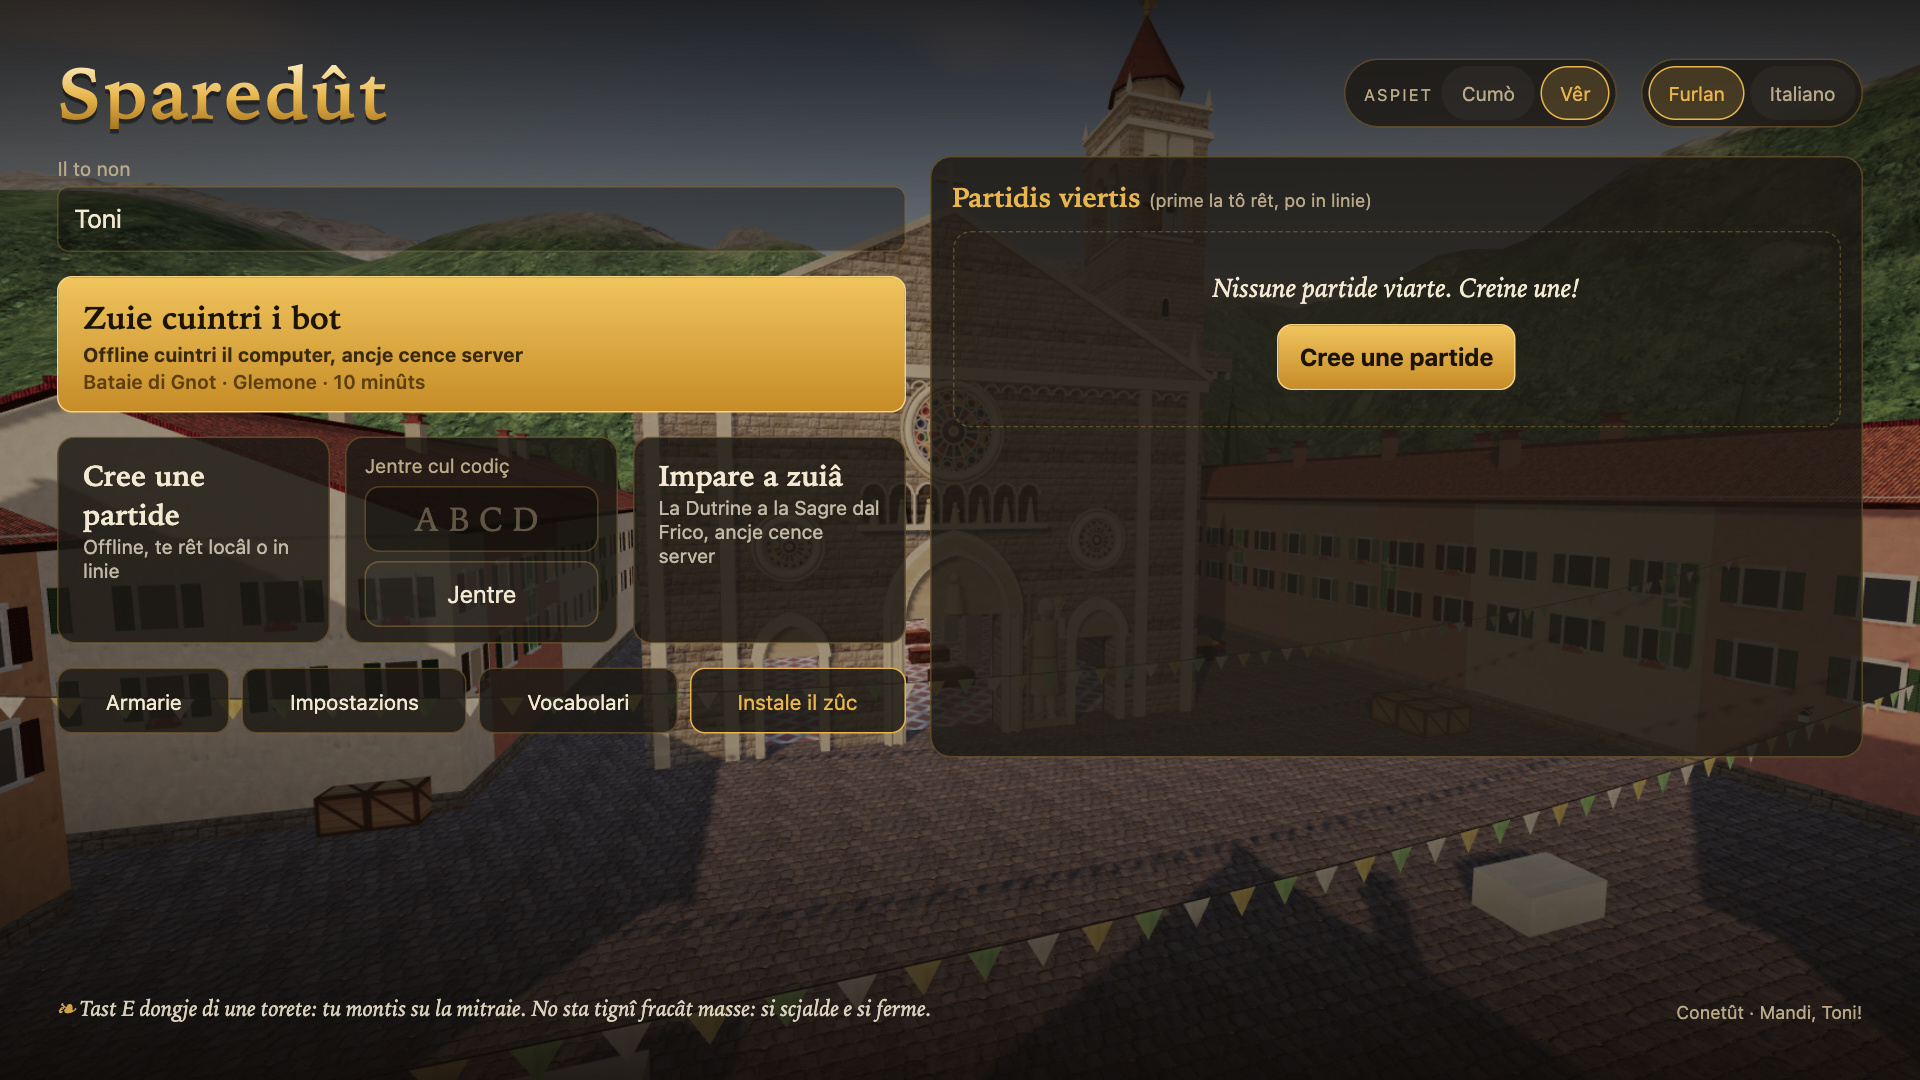
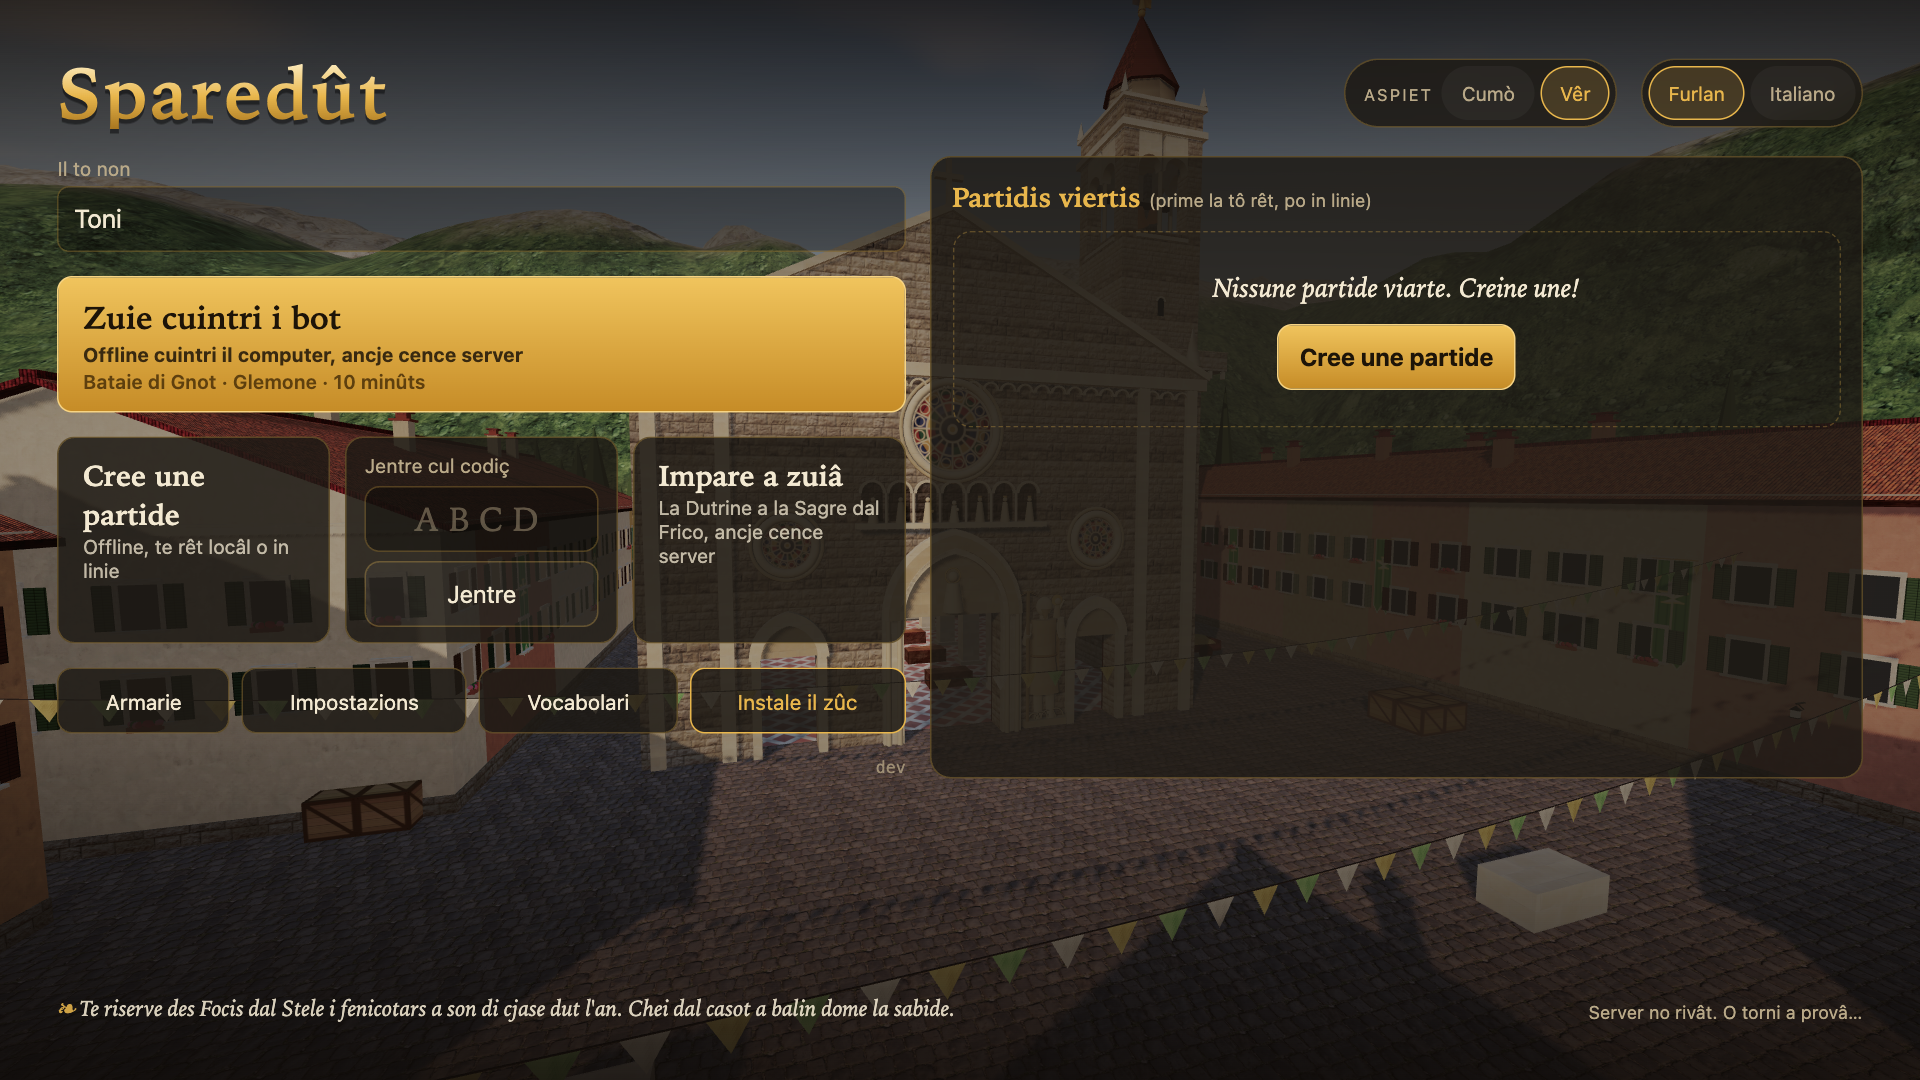
feat: the game has a version, and the menu shows it
`version` in package.json (0.1.0) is the single source. Vite stamps it and
the short commit SHA into the client bundle, and Alchemy's Rolldown build
does the same for the Worker (shared/version.ts, scripts/game-version.ts).
The dev server shows `dev`.

The menu's home screen shows `v0.1.0 · f25736c`, small, under the tools.
After a successful deploy on main, a separate CI job with `contents: write`
tags `vX.Y.Z` and publishes a GitHub Release with generated notes. When the
tag already exists, the job skips without failing. AGENTS.md says when to
bump minor or patch, and that PROTOCOL_VERSION is a separate decision.

Closes #92

diff --git a/scripts/game-version.ts b/scripts/game-version.ts
@@ -1,0 +1,50 @@
+/**
+ * Stamps the game's version and commit into a build (`shared/version.ts`). The version is
+ * `version` in `package.json`, the only place it is written; the commit is the short SHA of
+ * `HEAD`. The client's build (`vite.config.ts`) and the Worker's (`alchemy.run.ts`) both take
+ * their values from `buildDefines`, so the two always agree.
+ */
+import { execFileSync } from "node:child_process"
+import { readFileSync } from "node:fs"
+import type { Plugin } from "vite"
+import type { GameBuild } from "../shared/version.ts"
+
+const PACKAGE_JSON = new URL("../package.json", import.meta.url)
+
+/** `MAJOR.MINOR.PATCH`, with an optional pre-release or build suffix. */
+const SEMVER = /^\d+\.\d+\.\d+(?:[-+][0-9A-Za-z.+-]+)?$/
+
+/** The commit's short SHA: git's, or CI's `GITHUB_SHA` without git, or `unknown`. */
+export function shortCommit(env: Readonly<Record<string, string | undefined>> = process.env): string {
+  try {
+    return execFileSync("git", ["rev-parse", "--short=7", "HEAD"], { encoding: "utf8", stdio: ["ignore", "pipe", "ignore"] }).trim()
+  } catch {
+    return env.GITHUB_SHA?.slice(0, 7) || "unknown"
+  }
+}
+
+/** The version in `package.json`; a missing or malformed one fails the build. */
+export function packageVersion(json: string = readFileSync(PACKAGE_JSON, "utf8")): string {
+  const version: unknown = (JSON.parse(json) as { version?: unknown }).version
+  if (typeof version !== "string" || !SEMVER.test(version)) throw new Error(`package.json: "version" must be SemVer, not ${JSON.stringify(version)}`)
+  return version
+}
+
+/** The version and commit of the build being made now. */
+export function currentBuild(): GameBuild {
+  return { version: packageVersion(), commit: shortCommit() }
+}
+
+/** The constants `shared/version.ts` reads, as a bundler's `define`. */
+export function buildDefines(build: GameBuild): Record<string, string> {
+  return { __SPAREDUT_VERSION__: JSON.stringify(build.version), __SPAREDUT_COMMIT__: JSON.stringify(build.commit) }
+}
+
+/** The version and commit in `vite build` only: the dev server stays `dev`. */
+export function gameVersion(): Plugin {
+  return {
+    name: "sparedut-game-version",
+    apply: "build",
+    config: () => ({ define: buildDefines(currentBuild()) })
+  }
+}

diff --git a/client/style.css b/client/style.css
@@ -846,7 +846,7 @@ html.in-match[data-device="touch"] #perf { top: var(--free-t); left: var(--free-
    Everything at once. One column on a narrow screen, the list after the actions; where there is
    room, the room list beside them, as tall as they are and scrolling inside. */
 .home { align-self: start; display: grid; gap: clamp(10px, 1.4vw, 16px);
-  grid-template-columns: minmax(0, 1fr); grid-template-areas: "name" "hero" "tiles" "rooms" "tools"; }
+  grid-template-columns: minmax(0, 1fr); grid-template-areas: "name" "hero" "tiles" "rooms" "tools" "version"; }
 .home-name { grid-area: name; }
 .home-name input { min-block-size: 44px; font-size: 17px; }
 .home-name input[aria-invalid="true"]::placeholder { color: #f08a6c; }
@@ -885,6 +885,9 @@ html.in-match[data-device="touch"] #perf { top: var(--free-t); left: var(--free-
   border: 1px dashed var(--stone-line); border-radius: 10px; }
 .install-by-hand::before { content: "📲 "; }
 .home-tools .install[hidden], .install-by-hand[hidden] { display: none; }
+/* The version and commit: small and faint in the corner under everything, readable when looked for. */
+.home-version { grid-area: version; align-self: end; justify-self: end; margin: 0; font: 11px/1.2 ui-monospace, SFMono-Regular, Menlo, monospace;
+  color: var(--muted); opacity: 0.75; user-select: text; }
 
 /* Join by code: label, letters, button; the letters show in capitals whatever is typed. */
 .code-join { display: flex; flex-wrap: wrap; align-items: center; gap: 6px 8px; margin: 0; padding: 10px 12px; }
@@ -923,7 +926,7 @@ html.in-match[data-device="touch"] #perf { top: var(--free-t); left: var(--free-
 
 @container menu (inline-size > 46rem) {
   .home { grid-template-columns: minmax(0, 1fr) minmax(0, 1.1fr); grid-template-rows: repeat(4, auto) 1fr;
-    grid-template-areas: "name rooms" "hero rooms" "tiles rooms" "tools rooms" ". rooms"; }
+    grid-template-areas: "name rooms" "hero rooms" "tiles rooms" "tools rooms" "version rooms"; }
   /* The list takes the actions' height, or more on a tall screen, and scrolls inside it rather than making the page taller. */
   .home-rooms { contain: size; min-block-size: 55dvh; }
   #room-list { flex: 1; min-block-size: 0; overflow: auto; overscroll-behavior: contain; padding: 2px; margin: -2px; }

diff --git a/test/version.test.ts b/test/version.test.ts
@@ -1,0 +1,40 @@
+/**
+ * The game's version: `version` in `package.json`, stamped with the commit into the client's
+ * and the Worker's builds (`scripts/game-version.ts`), shown on the menu's home screen.
+ */
+import { expect, test } from "bun:test"
+import { readFileSync } from "node:fs"
+import { buildDefines, currentBuild, packageVersion } from "../scripts/game-version.ts"
+import { GAME_BUILD, versionLabel } from "../shared/version.ts"
+
+test("the menu shows the version and the commit, or `dev` where nothing was stamped", () => {
+  expect(versionLabel({ version: "0.1.0", commit: "f25736c" })).toBe("v0.1.0 · f25736c")
+  expect(versionLabel(null)).toBe("dev")
+})
+
+test("outside a build nothing is stamped: the dev server and the Bun server are `dev`", () => {
+  expect(GAME_BUILD).toBeNull()
+})
+
+test("the version is package.json's own, SemVer", () => {
+  expect(packageVersion()).toBe((JSON.parse(readFileSync(new URL("../package.json", import.meta.url), "utf8")) as { version: string }).version)
+  expect(packageVersion('{"version":"0.12.3"}')).toBe("0.12.3")
+  expect(packageVersion('{"version":"1.0.0-rc.1"}')).toBe("1.0.0-rc.1")
+  expect(() => packageVersion("{}")).toThrow()
+  expect(() => packageVersion('{"version":"0.1"}')).toThrow()
+  expect(() => packageVersion('{"version":"v0.1.0"}')).toThrow()
+})
+
+test("a build is stamped with the version and a short commit, as string literals", () => {
+  const build = currentBuild()
+  expect(build.version).toBe(packageVersion())
+  expect(build.commit).toMatch(/^([0-9a-f]{7,}|unknown)$/)
+  expect(buildDefines({ version: "0.1.0", commit: "f25736c" })).toEqual({ __SPAREDUT_VERSION__: '"0.1.0"', __SPAREDUT_COMMIT__: '"f25736c"' })
+})
+
+test("the version is on the menu's home screen only, so never over a match", () => {
+  const html = readFileSync(new URL("../client/index.html", import.meta.url), "utf8")
+  const home = html.slice(html.indexOf('<div id="menu-home"'), html.indexOf("<!-- A password room's prompt"))
+  expect(home).toContain('id="home-version"')
+  expect(html.slice(html.indexOf("<!-- ===================== HUD"))).not.toContain("home-version")
+})

diff --git a/shared/version.ts b/shared/version.ts
@@ -1,0 +1,28 @@
+/**
+ * The game's version, the one people read and say ("0.1.0"), and the commit it was built from.
+ * Both come in at build time (`scripts/game-version.ts`): `vite build` writes them into the client
+ * bundle and `alchemy.run.ts` into the Worker's, from `version` in `package.json` and the git
+ * commit. The dev server and the Bun server have neither, so they are `dev`.
+ *
+ * Not `PROTOCOL_VERSION` (`shared/protocol.ts`): that one says which client and server can play
+ * together, and a release does not have to change it.
+ */
+
+declare const __SPAREDUT_VERSION__: string | undefined
+declare const __SPAREDUT_COMMIT__: string | undefined
+
+export interface GameBuild {
+  /** SemVer from `package.json`, without the `v`. */
+  readonly version: string
+  /** The short commit SHA: two builds of the same version told apart. */
+  readonly commit: string
+}
+
+/** This build's version and commit, or `null` where nothing was stamped (dev server, Bun server, tests). */
+export const GAME_BUILD: GameBuild | null =
+  typeof __SPAREDUT_VERSION__ === "string" && typeof __SPAREDUT_COMMIT__ === "string" ? { version: __SPAREDUT_VERSION__, commit: __SPAREDUT_COMMIT__ } : null
+
+/** What the menu shows: `v0.1.0 · f25736c`, or `dev`. The same in every language. */
+export function versionLabel(build: GameBuild | null): string {
+  return build ? `v${build.version} · ${build.commit}` : "dev"
+}

diff --git a/vite.config.ts b/vite.config.ts
@@ -2,6 +2,7 @@ import { defineConfig } from "vite"
 import { rapierWithWasmFile } from "./scripts/rapier-wasm.ts"
 import { deployOriginInPage } from "./scripts/deploy-origin.ts"
 import { serviceWorker } from "./scripts/service-worker.ts"
+import { gameVersion } from "./scripts/game-version.ts"
 
 /** With PUBLIC_URL (tunnel or domain) Vite also accepts that host. */
 const publicHost = process.env.PUBLIC_URL ? new URL(process.env.PUBLIC_URL).hostname : null
@@ -9,8 +10,9 @@ const publicHost = process.env.PUBLIC_URL ? new URL(process.env.PUBLIC_URL).host
 export default defineConfig({
   root: "client",
   // The public address in the page's link previews, in every build; `dist/sw.js` and its
-  // precache list, made from the build output: production only.
-  plugins: [deployOriginInPage(), serviceWorker()],
+  // precache list, made from the build output: production only; the game's version and commit in
+  // the bundle, production only too (`shared/version.ts`).
+  plugins: [deployOriginInPage(), serviceWorker(), gameVersion()],
   // Rapier's WASM as its own file, not 4 MB of base64 in both the page's and the host worker's bundle.
   resolve: { alias: { "@dimforge/rapier3d-compat": rapierWithWasmFile("url") } },
   build: { outDir: "../dist", emptyOutDir: true, chunkSizeWarningLimit: 4000 },

diff --git a/test/offline-boot.build.ts b/test/offline-boot.build.ts
@@ -13,6 +13,7 @@ import { deployOrigin } from "../scripts/deploy-origin.ts"
 import { STRINGS } from "../client/i18n.ts"
 import { readOpening } from "../client/opening.ts"
 import { readPrecache } from "../scripts/service-worker.ts"
+import { currentBuild } from "../scripts/game-version.ts"
 
 const DIST = join(import.meta.dir, "../dist")
 if (!existsSync(join(DIST, "index.html"))) throw new Error("no production build in dist/: run `pnpm build` first")
@@ -129,4 +130,11 @@ test("the built manifest offers the home screen's button as the icon's shortcut,
   expect(readOpening(target.search, target.hash)).toEqual({ kind: "shortcut" })
   for (const icon of manifest.shortcuts![0]!.icons ?? []) expect(existsSync(fileOf(icon.src))).toBe(true)
   expect(manifest.launch_handler).toEqual({ client_mode: "focus-existing" })
+})
+
+test("the built page carries this version and commit, stamped in place of the build's constants", () => {
+  const build = currentBuild()
+  const code = readdirSync(join(DIST, "assets")).filter((name) => name.endsWith(".js")).map((name) => readFileSync(join(DIST, "assets", name), "utf8"))
+  expect(code.some((js) => js.includes(build.version) && js.includes(build.commit))).toBe(true)
+  expect(code.filter((js) => /__SPAREDUT_(VERSION|COMMIT)__/.test(js))).toEqual([])
 })

diff --git a/alchemy.run.ts b/alchemy.run.ts
@@ -10,6 +10,7 @@ import * as Alchemy from "alchemy"
 import * as Cloudflare from "@alchemy.run/cloudflare"
 import * as Effect from "effect/Effect"
 import { rapierWithWasmFile } from "./scripts/rapier-wasm.ts"
+import { buildDefines, currentBuild } from "./scripts/game-version.ts"
 
 export default Alchemy.Stack(
   "Sparedut",
@@ -30,7 +31,13 @@ export default Alchemy.Stack(
         runWorkerFirst: ["/ws"]
       },
       env: { PARTIDIS: Cloudflare.DurableObject("PARTIDIS", { className: "Partidis" }) },
-      build: { input: { resolve: { alias: { "@dimforge/rapier3d-compat": rapierWithWasmFile("module") } } } },
+      // The Worker gets the same version and commit as the client (`shared/version.ts`).
+      build: {
+        input: {
+          resolve: { alias: { "@dimforge/rapier3d-compat": rapierWithWasmFile("module") } },
+          transform: { define: buildDefines(currentBuild()) }
+        }
+      },
       domain: process.env.DEPLOY_DOMAIN || undefined,
       observability: { enabled: true }
     })

diff --git a/server/worker.ts b/server/worker.ts
@@ -7,6 +7,7 @@ import { DurableObject } from "cloudflare:workers"
 import { initPhysics } from "../shared/physics.ts"
 import { Hub, type Peer } from "./hub.ts"
 import { networkOf } from "./network.ts"
+import { GAME_BUILD, versionLabel } from "../shared/version.ts"
 
 /**
  * A phone going to standby doesn't say goodbye: it just stops talking. The client sends a
@@ -46,6 +47,12 @@ export class Partidis extends DurableObject<Env> {
   private readonly hub = new Hub()
   private readonly sockets = new Map<WebSocket, Connection>()
   private loop: ReturnType<typeof setInterval> | null = null
+
+  constructor(ctx: DurableObjectState, env: Env) {
+    super(ctx, env)
+    // Which build is answering, in the Worker's logs: a deploy starts the object again.
+    console.log(`Partidis ${versionLabel(GAME_BUILD)}`)
+  }
 
   override async fetch(request: Request): Promise<Response> {
     if (request.headers.get("Upgrade") !== "websocket") return new Response("Expected a WebSocket", { status: 426 })

diff --git a/client/menu.ts b/client/menu.ts
@@ -6,6 +6,7 @@ import type { TrainingStart } from "../shared/training/start.ts"
 import type { MapId } from "../shared/map.ts"
 import type { Access, RoomSummary } from "../shared/protocol.ts"
 import { PRIMARIES, WEAPON_IDS, WEAPONS, type PrimaryId, type WeaponId } from "../shared/weapons.ts"
+import { GAME_BUILD, versionLabel } from "../shared/version.ts"
 // UI SDK's radio group: one tab stop, arrow keys, the radio role. Markup and styling stay the game's.
 import "@ui-sdk/web/radio"
 // UI SDK's dialog, for the password prompt: focus moved in and back, Tab kept inside, Esc and outside presses close it.
@@ -369,6 +370,7 @@ export class Menu {
 
   /** Listeners only once: the room list is redrawn on every refresh and language change. */
   private bindHome() {
+    $("home-version").textContent = versionLabel(GAME_BUILD)
     const code = $<HTMLInputElement>("j-code")
     code.addEventListener("input", () => {
       this.model.typeCode(code.value)

diff --git a/client/index.html b/client/index.html
@@ -117,6 +117,8 @@
           <button id="install" class="install" hidden></button>
           <p id="install-by-hand" class="install-by-hand" hidden></p>
         </nav>
+        <!-- The game's version and commit, or `dev` (shared/version.ts): small, the same in every language. -->
+        <p id="home-version" class="home-version"></p>
       </div>
 
       <!-- A password room's prompt, over the home screen: the room list stays where it was. -->

diff --git a/AGENTS.md b/AGENTS.md
@@ -17,3 +17,11 @@ Single-context: `GLOSSARY.md` and `docs/adr/` at the repo root. See `docs/agents
 ## Showcase pictures
 
 `client/public/showcase/` holds the pictures that show the game off outside a match: the link preview, and the install prompt's screenshots that the manifest lists (a match and the menu, on a phone and on a computer). `scripts/showcase.ts` takes them from the running game; CI has no browser, so take them again by hand in the same change whenever it touches a look, the HUD or the touch controls, or the menu. Look at each picture before committing it, and attach it to the pull request.
+
+## Versions
+
+The game's version is `version` in `package.json` (SemVer, `0.x` while the game is pre-1.0), and nowhere else: the build stamps it, with the short commit SHA, into the client and the Worker (`shared/version.ts`, `scripts/game-version.ts`), and the menu's home screen shows it (`dev` on the dev server). After a deploy on `main`, CI tags the commit `vX.Y.Z` and publishes a GitHub Release; a merge without a bump releases nothing.
+
+Bump it by hand in the pull request that ships, following its conventional-commit title: **minor** (`0.6.0` → `0.7.0`) for a `feat:`, something a player can see or do that they could not before; **patch** (`0.6.0` → `0.6.1`) for a `fix:` or `perf:`. Changes a player cannot notice (`docs:`, `test:`, `chore:`, `ci:`, `refactor:`) need no bump.
+
+`PROTOCOL_VERSION` (`shared/protocol.ts`) is a separate decision: it says which client and server can play together, and changes only when the protocol breaks. A release does not have to change it, and changing it does not need a release of its own.
